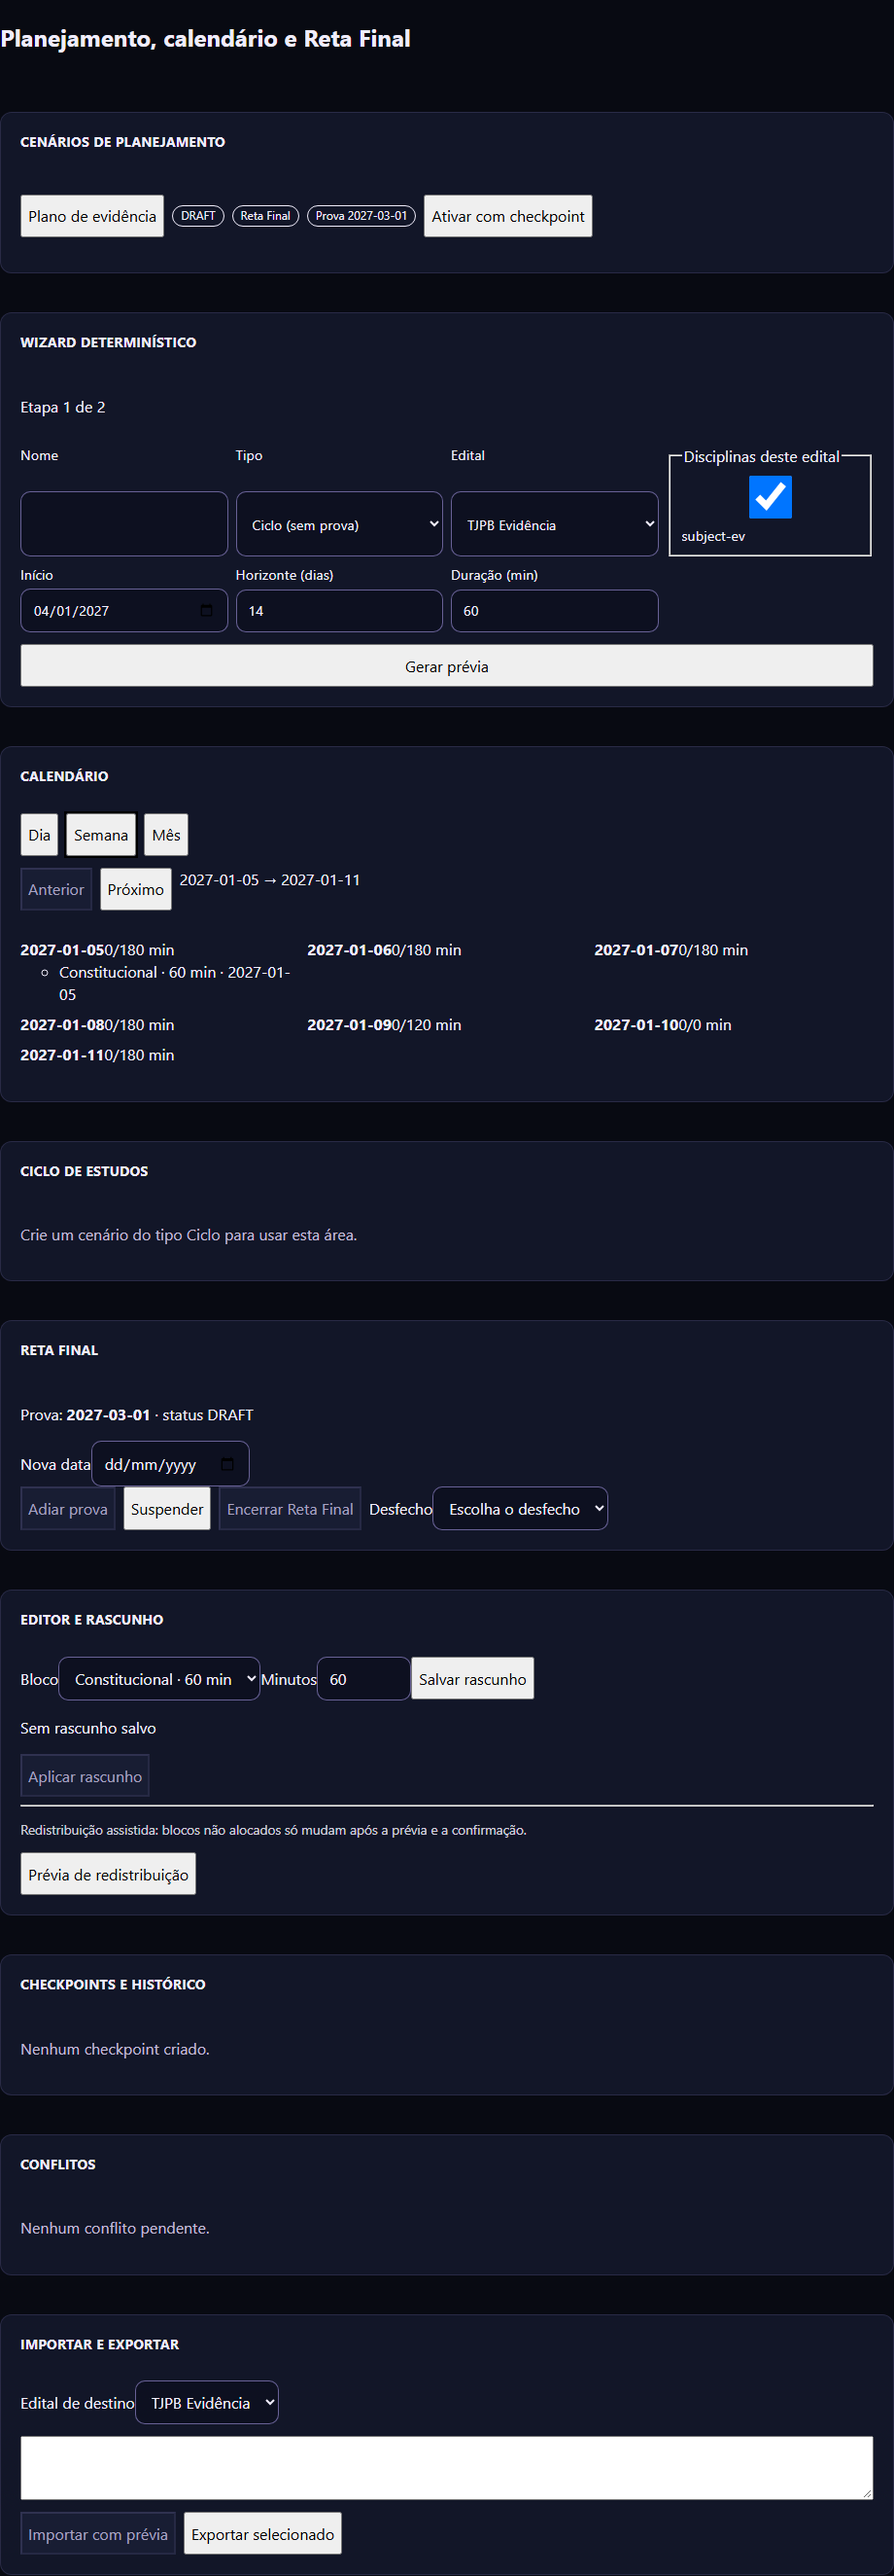
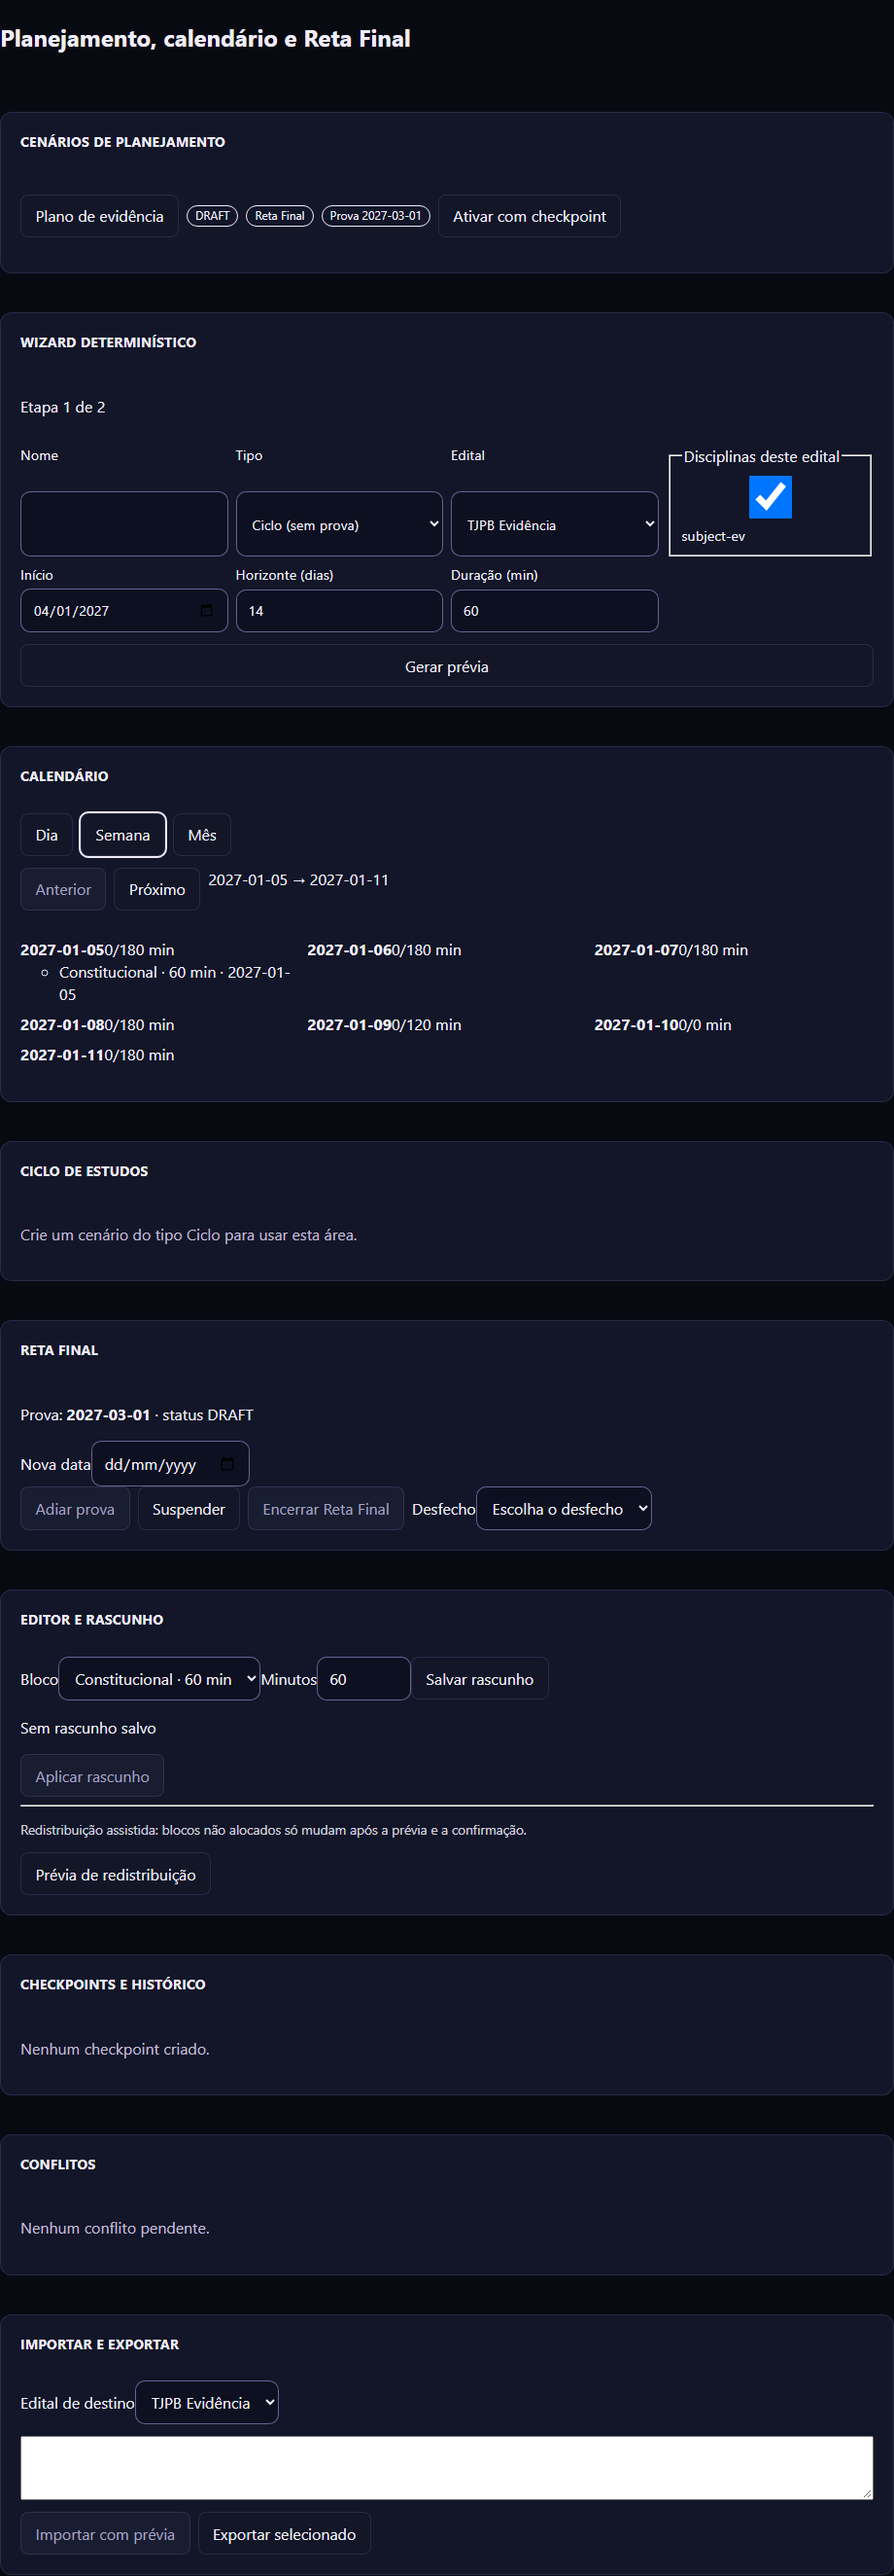
fix(v2-f3): keep transition capacity additive and theme planning controls

diff --git a/apps/v2/tests/e2e/f3-a11y-states.spec.ts b/apps/v2/tests/e2e/f3-a11y-states.spec.ts
@@ -131,6 +131,7 @@ test('text_error_and_disabled_states_meet_contrast_in_eight_themes', async ({ pa
     disabled: number;
     status: number;
   }[] = [];
+  const buttonBackgrounds = new Set<string>();
   for (const theme of THEMES) {
     await page.getByLabel('Tema').selectOption(theme);
     await expect(page.locator('[data-testid="planning-dashboard"]')).toBeVisible();
@@ -143,6 +144,13 @@ test('text_error_and_disabled_states_meet_contrast_in_eight_themes', async ({ pa
       '[data-action="preview-generation"]',
     );
     expect(button, `button contrast in ${theme}`).toBeGreaterThanOrEqual(4.5);
+    const buttonBackground = await page.evaluate(
+      () =>
+        getComputedStyle(
+          document.querySelector('[data-action="preview-generation"]') as Element,
+        ).backgroundColor,
+    );
+    buttonBackgrounds.add(buttonBackground);
 
     // Disabled text is exempt from WCAG AA, but must stay readable.
     const disabled = await page.evaluate(contrastOf, '[data-action="apply-draft"]');
@@ -156,6 +164,8 @@ test('text_error_and_disabled_states_meet_contrast_in_eight_themes', async ({ pa
     expect(status, `status contrast in ${theme}`).toBeGreaterThanOrEqual(4.5);
     samples.push({ theme, heading, button, disabled, status });
   }
+  // The enabled button is themed, not the browser default.
+  expect(buttonBackgrounds.size).toBeGreaterThanOrEqual(2);
   console.log('F3_CONTRAST_SAMPLES', JSON.stringify(samples));
 });
 
@@ -164,7 +174,7 @@ test('keyboard_focus_is_visible_ordered_and_not_trapped', async ({ page }) => {
   await page.locator('[data-testid="planning-wizard"]').scrollIntoViewIfNeeded();
 
   const names: string[] = [];
-  let visibleRings = 0;
+  const ringSamples: number[] = [];
   for (let step = 0; step < 40; step += 1) {
     await page.keyboard.press('Tab');
     const current = await page.evaluate(() => {
@@ -182,11 +192,37 @@ test('keyboard_focus_is_visible_ordered_and_not_trapped', async ({ page }) => {
       };
     });
     names.push(`${current.tag}:${current.label}`);
-    if (
-      current.outlineStyle === 'solid' &&
-      Number.parseFloat(current.outlineWidth || '0') >= 3
-    ) {
-      visibleRings += 1;
+    if (current.outlineStyle === 'solid' && Number.parseFloat(current.outlineWidth || '0') >= 3) {
+      const ring = await page.evaluate(() => {
+        const active = document.activeElement as HTMLElement | null;
+        if (!active) return 0;
+        const style = getComputedStyle(active);
+        let node: HTMLElement | null = active;
+        let background = style.backgroundColor;
+        while (node && (background === 'rgba(0, 0, 0, 0)' || background === 'transparent')) {
+          node = node.parentElement;
+          background = node ? getComputedStyle(node).backgroundColor : 'rgb(255,255,255)';
+        }
+        const parse = (value: string) => {
+          const match = value.match(/rgba?\(([^)]+)\)/);
+          if (!match) return null;
+          const parts = match[1]!.split(',').map((item) => Number.parseFloat(item.trim()));
+          return { r: parts[0]!, g: parts[1]!, b: parts[2]!, a: parts[3] ?? 1 };
+        };
+        const channel = (value: number) => {
+          const n = value / 255;
+          return n <= 0.03928 ? n / 12.92 : Math.pow((n + 0.055) / 1.055, 2.4);
+        };
+        const lum = (c: { r: number; g: number; b: number }) =>
+          0.2126 * channel(c.r) + 0.7152 * channel(c.g) + 0.0722 * channel(c.b);
+        const fg = parse(style.outlineColor);
+        const bg = parse(background);
+        if (!fg || !bg) return 0;
+        const light = Math.max(lum(fg), lum(bg));
+        const dark = Math.min(lum(fg), lum(bg));
+        return (light + 0.05) / (dark + 0.05);
+      });
+      ringSamples.push(ring);
     }
   }
   // The wizard fields and the calendar controls are reachable by keyboard.
@@ -195,24 +231,41 @@ test('keyboard_focus_is_visible_ordered_and_not_trapped', async ({ page }) => {
   // Focus never disappears into the body for more than one step.
   const bodySteps = names.filter((name) => name.startsWith('BODY')).length;
   expect(bodySteps).toBeLessThanOrEqual(1);
-  // Keyboard focus is always visibly indicated (3px solid ring).
-  expect(visibleRings).toBeGreaterThan(0);
+  // Keyboard focus is visibly indicated with a themed 3px ring.
+  console.log('F3_FOCUS_RING', JSON.stringify(ringSamples));
+  expect(ringSamples.length).toBeGreaterThan(0);
+  expect(Math.min(...ringSamples)).toBeGreaterThanOrEqual(3);
 });
 
 test('reduced_motion_and_zoom_keep_the_planning_usable', async ({ page }) => {
-  await page.emulateMedia({ reducedMotion: 'reduce' });
   await seed(page);
 
-  const transition = await page.evaluate(() => {
+  const normalTransition = await page.evaluate(() => {
     const button = document.querySelector('[data-action="preview-generation"]');
     return button ? getComputedStyle(button).transitionDuration : '';
   });
-  expect(Number.parseFloat(transition || '0')).toBeLessThanOrEqual(0.001);
+  expect(Number.parseFloat(normalTransition || '0')).toBeGreaterThan(0);
 
-  await page.setViewportSize({ width: 640, height: 480 });
+  await page.emulateMedia({ reducedMotion: 'reduce' });
+  const reducedTransition = await page.evaluate(() => {
+    const button = document.querySelector('[data-action="preview-generation"]');
+    return button ? getComputedStyle(button).transitionDuration : '';
+  });
+  expect(Number.parseFloat(reducedTransition || '0')).toBeLessThanOrEqual(0.001);
+
+  await page.evaluate(() => {
+    document.body.style.zoom = '200%';
+  });
   const overflow = await page.evaluate(
     () => document.documentElement.scrollWidth - document.documentElement.clientWidth,
   );
   expect(overflow).toBeLessThanOrEqual(1);
+  const clipped = await page.evaluate(
+    () =>
+      [...document.querySelectorAll('[data-testid="planning-workspace"] *')].filter(
+        (element) => element.scrollWidth > element.clientWidth + 1,
+      ).length,
+  );
+  expect(clipped).toBe(0);
   await expect(page.locator('[data-testid="planning-dashboard"]')).toBeVisible();
 });

diff --git a/apps/v2/tests/e2e/f3-journey.spec.ts b/apps/v2/tests/e2e/f3-journey.spec.ts
@@ -70,14 +70,23 @@ async function runJourney(page: Page): Promise<void> {
   await expect(page.locator('[data-testid="wizard-preview"]')).toBeVisible();
   await page.locator('[data-action="confirm-generation"]').click();
   await expect(page.locator('[data-testid="planning-dashboard"]')).toContainText('Jornada F3');
+  await expect(
+    page.locator('[data-testid="planning-dashboard"] li[data-status="ACTIVE"]'),
+  ).toContainText('Jornada F3');
 
   // Calendar navigation.
   await page.locator('[data-action="calendar-month"]').click();
+  await expect(page.locator('[data-testid="planning-calendar"] [data-days]')).toHaveAttribute(
+    'data-days',
+    '30',
+  );
+  await expect(page.locator('[data-testid="planning-calendar"]')).toContainText('Conteúdo');
   const windowBefore = await page.locator('[data-testid="calendar-window"]').textContent();
   await page.locator('[data-action="calendar-next"]').click();
   await expect(page.locator('[data-testid="calendar-window"]')).not.toHaveText(
     windowBefore ?? '',
   );
+  await expect(page.locator('[data-testid="calendar-window"]')).toContainText('→');
 
   // Draft editor.
   await page.getByLabel('Minutos').fill('90');
@@ -103,6 +112,14 @@ async function runJourney(page: Page): Promise<void> {
   await page.locator('[data-action="use-incoming"]').first().click();
   await page.locator('[data-action="apply-draft"]').click();
   await expect(page.locator('.inline-notice')).toContainText('Rascunho aplicado');
+  const appliedMinutes = await page.evaluate(async () => {
+    const harness = (window as unknown as HarnessWindow).__v2E2E;
+    const scenarios = await harness.planningList('local-default');
+    const scenario = scenarios.find((item) => item.name === 'Jornada F3')!;
+    const snapshot = await harness.planningLoad('local-default', scenario.id);
+    return snapshot?.blocks.map((block) => block.plannedMinutes) ?? [];
+  });
+  expect(appliedMinutes).toContain(90);
 
   // Final stretch: postpone the exam date.
   await page.getByLabel('Nova data').fill('2027-04-01');
@@ -127,6 +144,11 @@ async function runJourney(page: Page): Promise<void> {
     .selectOption({ label: 'TJPB Jornada' });
   await page.locator('[data-action="import-planning"]').click();
   await expect(page.locator('[data-testid="portability-status"]')).toContainText('Importado');
+  const imported = await page.evaluate(async () => {
+    const harness = (window as unknown as HarnessWindow).__v2E2E;
+    return (await harness.planningList('local-default')).map((item) => item.name);
+  });
+  expect(imported).toContain('Reta importada jornada');
 
   const finalState = await currentScenario(page);
   expect(finalState?.scenario.examDate).toBe('2027-04-01');

diff --git a/apps/v2/tests/unit/f3-final-stretch.test.ts b/apps/v2/tests/unit/f3-final-stretch.test.ts
@@ -292,4 +292,60 @@ describe('F3 final stretch', () => {
     expect(preview.blocks.length).toBeGreaterThan(0);
     expect(preview.blocks.every((block) => block.allocation === 'UNALLOCATED')).toBe(true);
   });
+
+  it('transition_adds_own_fixed_blocks_to_other_editais_reservations', () => {
+    const ownFixed: PlanBlock = {
+      ...fixed,
+      id: 'own-confirmed',
+      plannedMinutes: 120,
+      allocation: 'CONFIRMED_TIME',
+      civilDate: '2027-01-04',
+      localStart: '08:00',
+      localEnd: '10:00',
+    };
+    const otherEdital: PlanBlock = {
+      ...fixed,
+      id: 'dpe-confirmed',
+      editalId: 'edital-dpe',
+      scenarioId: 'scenario-dpe',
+      editalDisciplineId: 'link-dpe',
+      plannedMinutes: 60,
+      allocation: 'CONFIRMED_TIME',
+      civilDate: '2027-01-04',
+      localStart: '08:00',
+      localEnd: '09:00',
+    };
+    const threeUnits = createCycleState({
+      profileId: 'profile-local',
+      scenarioId: cycle.id,
+      content: [
+        { editalDisciplineId: 'link-constitucional', assuntoId: 'a1', plannedMinutes: 60 },
+        { editalDisciplineId: 'link-constitucional', assuntoId: 'a2', plannedMinutes: 60 },
+        { editalDisciplineId: 'link-administrativo', assuntoId: 'a3', plannedMinutes: 60 },
+      ],
+    });
+    const preview = previewFinalStretchTransition({
+      cycle,
+      cycleState: threeUnits,
+      nextScenarioId: 'scenario-rf3',
+      examDate: '2027-01-04',
+      startDate: '2027-01-04',
+      zone,
+      weekly,
+      exceptions: [],
+      fixedBlocks: [ownFixed],
+      capacityBlocks: [otherEdital],
+      operationId: 'op-rf3',
+    });
+
+    const projected = preview.blocks.filter((block) => block.allocation === 'PROJECTED');
+    const unallocated = preview.blocks.filter((block) => block.allocation === 'UNALLOCATED');
+    // 180 min available; own 120 + other 60 fill the day, so nothing new fits.
+    expect(projected).toHaveLength(0);
+    expect(unallocated).toHaveLength(3);
+    const minutesOnDay = preview.blocks
+      .filter((block) => block.civilDate === '2027-01-04')
+      .reduce((sum, block) => sum + block.plannedMinutes, 0);
+    expect(minutesOnDay).toBeLessThanOrEqual(180);
+  });
 });

diff --git a/apps/v2/src/presentation/PlanningWorkspace.tsx b/apps/v2/src/presentation/PlanningWorkspace.tsx
@@ -34,6 +34,16 @@ import { PlanningPortability } from './components/PlanningPortability';
 
 const ZONE = 'America/Fortaleza';
 
+/** Civil date in the plan's zone, never the device UTC date. */
+function todayInZone(zone: string): string {
+  return new Intl.DateTimeFormat('en-CA', {
+    timeZone: zone,
+    year: 'numeric',
+    month: '2-digit',
+    day: '2-digit',
+  }).format(new Date());
+}
+
 const weekly: WeeklyAvailability = {
   timeZone: ZONE,
   days: {
@@ -270,7 +280,7 @@ export function PlanningWorkspace({ profileId, content, locked, onNotice }: Prop
       kind: 'MANUAL',
       operationId: `checkpoint-${scenarioId}`,
     });
-    await repository().activateScenario({
+    const activated = await repository().activateScenario({
       profileId,
       operationId: `activate-${scenarioId}`,
       editalId: input.editalId,
@@ -279,7 +289,11 @@ export function PlanningWorkspace({ profileId, content, locked, onNotice }: Prop
     });
     await refresh();
     setSelectedId(scenarioId);
-    onNotice('Cenário criado e ativado localmente.');
+    onNotice(
+      activated.kind === 'LOCAL_COMMITTED'
+        ? 'Cenário criado e ativado localmente.'
+        : 'Cenário criado em rascunho; a ativação não foi concluída.',
+    );
     return true;
   }
 
@@ -380,7 +394,7 @@ export function PlanningWorkspace({ profileId, content, locked, onNotice }: Prop
       },
       nextScenarioId,
       examDate,
-      startDate: new Date().toISOString().slice(0, 10),
+      startDate: todayInZone(ZONE),
       zone: ZONE,
       weekly,
       exceptions: [],
@@ -564,7 +578,7 @@ export function PlanningWorkspace({ profileId, content, locked, onNotice }: Prop
     const preview = previewRedistribution({
       blocks: selectedBlocks,
       reservationBlocks: officialReservations,
-      startDate: new Date().toISOString().slice(0, 10),
+      startDate: todayInZone(ZONE),
       horizonDays: 45,
       zone: ZONE,
       weekly,

diff --git a/apps/v2/src/domain/planning-cycle.ts b/apps/v2/src/domain/planning-cycle.ts
@@ -89,6 +89,16 @@ function withHistory(state: CycleState, entry: CycleHistoryEntry): CycleHistoryE
   return history.slice(-200);
 }
 
+function dedupeReservations(blocks: PlanBlock[]): PlanBlock[] {
+  const seen = new Set<string>();
+  return blocks.filter((block) => {
+    const key = `${block.profileId}::${block.id}`;
+    if (seen.has(key)) return false;
+    seen.add(key);
+    return true;
+  });
+}
+
 export function currentCycleContent(state: CycleState): CycleContent | null {
   return state.content[state.cursorIndex] ?? null;
 }
@@ -263,12 +273,17 @@ export function projectCycle(input: CycleProjectionInput): CycleProjection {
 
   const remainingByDate = new Map<CivilDate, number>();
   for (const date of dates) {
+    // Own fixed blocks and other scenarios' reservations are additive, never
+    // a replacement; the same block is only counted once.
+    const reservations = input.capacityReservations
+      ? dedupeReservations([...blocks, ...input.capacityReservations])
+      : blocks;
     const capacity = evaluateDailyCapacity({
       date,
       zone: input.zone,
       weekly: input.weekly,
       exceptions: input.exceptions,
-      reservations: input.capacityReservations ?? blocks,
+      reservations,
       fixedCommitments: input.fixedCommitments,
     });
     remainingByDate.set(date, capacity.remainingMinutes);

diff --git a/apps/v2/src/presentation/styles.css b/apps/v2/src/presentation/styles.css
@@ -502,11 +502,24 @@ select {
   min-height: 44px;
 }
 
+.planning-workspace button {
+  background: var(--card, #121821);
+  color: var(--text, #f3f6fb);
+  border: 1px solid var(--border, #94a3b824);
+  border-radius: 8px;
+  padding: 0.45rem 0.9rem;
+  transition: background-color 120ms ease;
+}
+
+.planning-workspace button:hover:not(:disabled) {
+  background: var(--card-hover, #151d27);
+}
+
 .planning-workspace button:focus-visible,
 .planning-workspace input:focus-visible,
 .planning-workspace select:focus-visible,
 .planning-workspace textarea:focus-visible {
-  outline: 3px solid currentColor;
+  outline: 3px solid var(--accent, currentColor);
   outline-offset: 2px;
 }
 
@@ -525,4 +538,14 @@ select {
   border-color: var(--border, #94a3b824);
   opacity: 1;
   cursor: not-allowed;
+}
+
+@media (prefers-reduced-motion: reduce) {
+  .planning-workspace *,
+  .planning-workspace *::before,
+  .planning-workspace *::after {
+    animation-duration: 0.01ms !important;
+    animation-iteration-count: 1 !important;
+    transition-duration: 0.01ms !important;
+  }
 }

diff --git a/apps/v2/tests/e2e/f3-t40-evidence.spec.ts b/apps/v2/tests/e2e/f3-t40-evidence.spec.ts
@@ -86,6 +86,10 @@ async function seed(page: import('@playwright/test').Page): Promise<void> {
 }
 
 test('capture_f3_t40_evidence', async ({ page }) => {
+  test.skip(
+    process.env.F3_T40_CAPTURE !== '1',
+    'set F3_T40_CAPTURE=1 to regenerate the evidence screenshots',
+  );
   mkdirSync(OUT, { recursive: true });
   await page.setViewportSize({ width: 1280, height: 900 });
   await seed(page);
